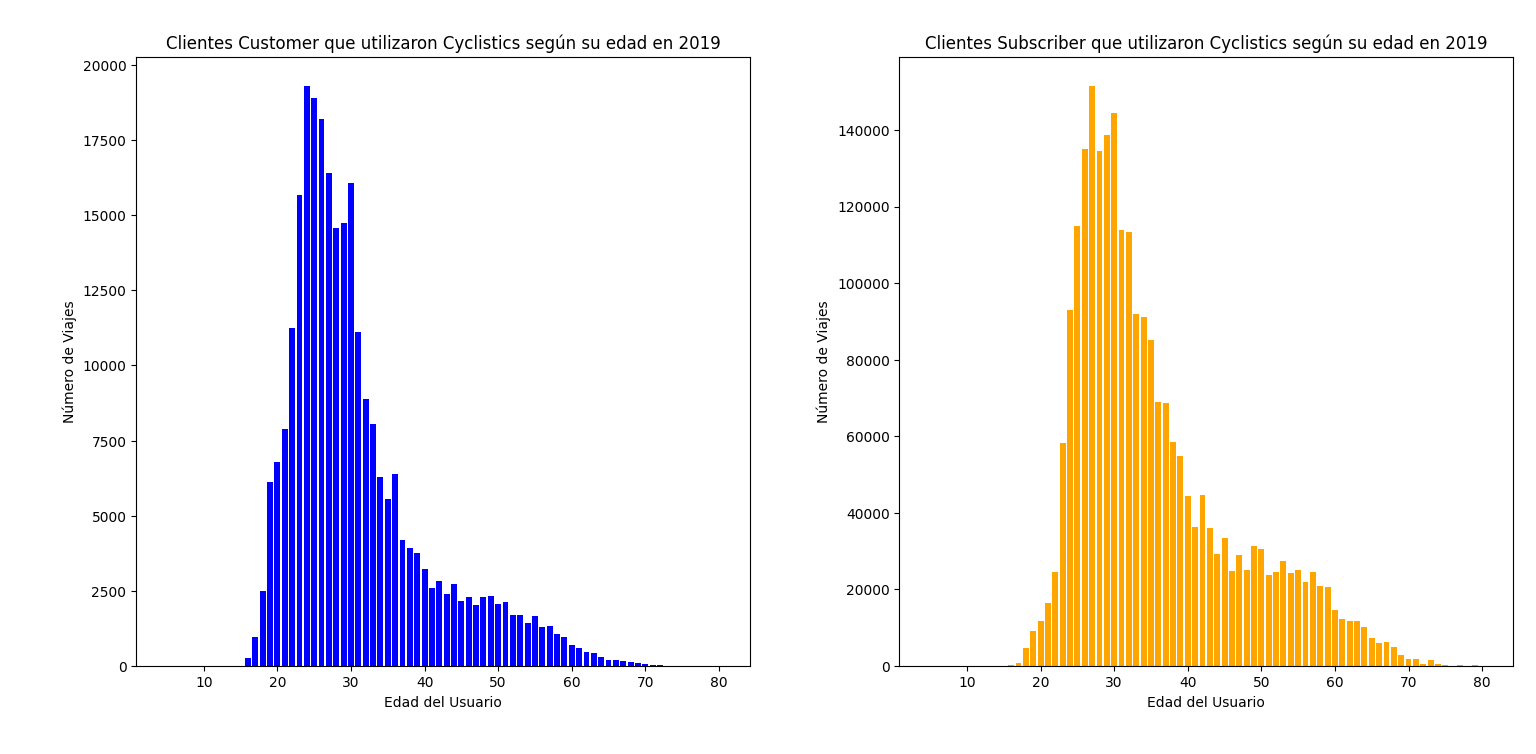
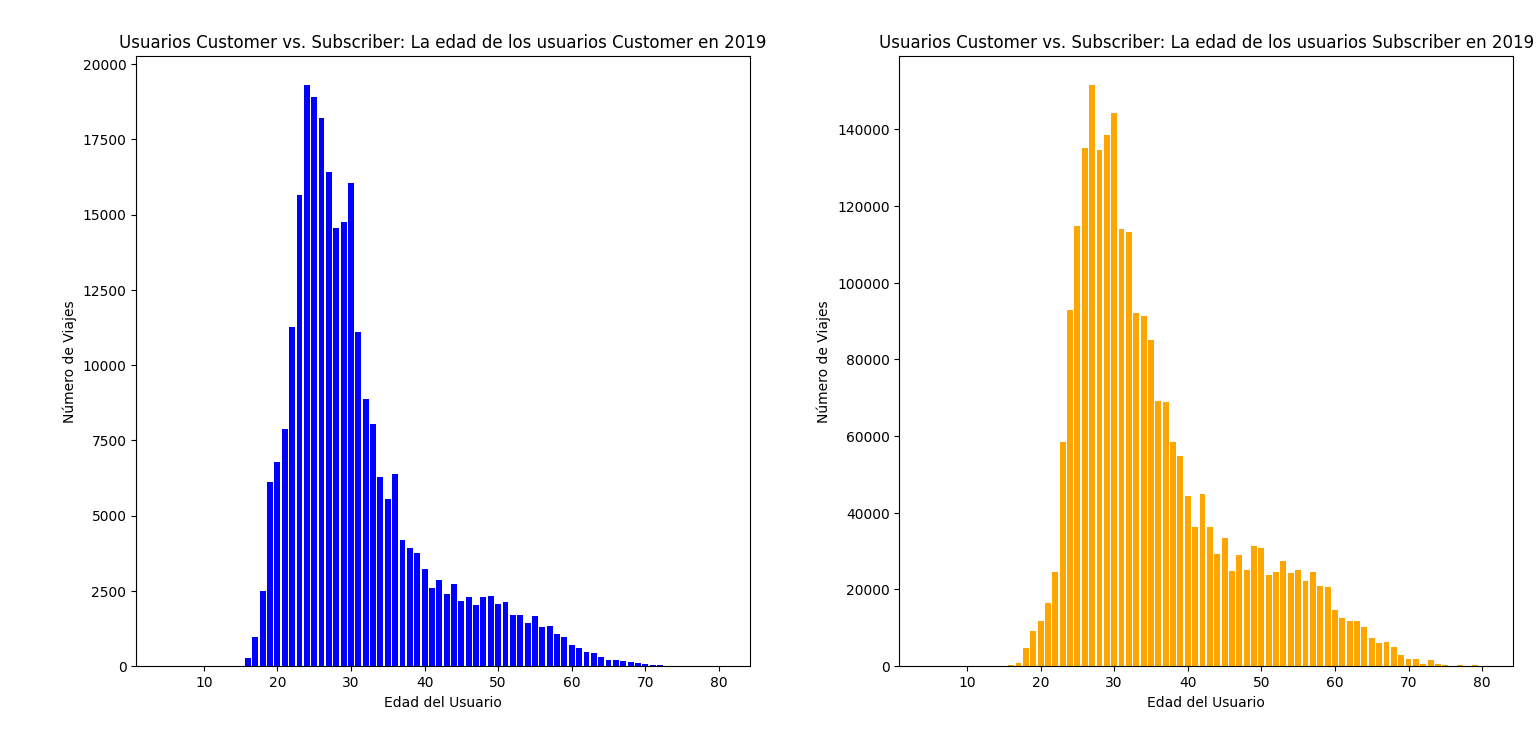
send changes

diff --git a/codigo_graficos/viajes_semana.py b/codigo_graficos/viajes_semana.py
@@ -1,4 +1,5 @@
 import matplotlib.pyplot as plt
+import numpy as np
 
 # Datos en formato JSON
 data = [
@@ -29,37 +30,52 @@ viajes_subscriber = [entry["total_viajes_subscriber"] for entry in data]
 tiempo_customer = [entry["promedio_recorrido_customer"]["minutes"] + entry["promedio_recorrido_customer"]["seconds"] / 60 for entry in data]
 tiempo_subscriber = [entry["promedio_recorrido_subscriber"]["minutes"] + entry["promedio_recorrido_subscriber"]["seconds"] / 60 for entry in data]
 
-# Crear los gráficos lineales
+# Crear el gráfico lineal del total de recorridos
 plt.figure(figsize=(10, 5))
 
-plt.subplot(2, 1, 1)
-plt.plot(dias_semana, viajes_customer, marker='o', color='blue')
-plt.xlabel('Día de la semana')
-plt.ylabel('Total de viajes')
-plt.title('Total de viajes de usuarios Customer por día de la semana en 2019')
+plt.plot(dias_semana, viajes_customer, marker='o', color='blue', label='Customer')
+plt.plot(dias_semana, viajes_subscriber, marker='o', color='orange', label='Subscriber')
 
-plt.subplot(2, 1, 2)
-plt.plot(dias_semana, viajes_subscriber, marker='o', color='orange')
-plt.xlabel('Día de la semana')
-plt.ylabel('Total de viajes')
-plt.title('Total de viajes de usuarios Subscriber por día de la semana en 2019')
+# Etiquetas de datos
+for i, (semana, vc, vs) in enumerate(zip(dias_semana, viajes_customer, viajes_subscriber)):
+    plt.text(semana, vc, f"{vc}", ha='center', va='bottom')
+    plt.text(semana, vs, f"{vs}", ha='center', va='bottom')
 
+# Rejillas
+plt.grid(True)
+
+plt.xlabel('Mes')
+plt.ylabel('Total de viajes')
+plt.title('Usuarios Customer vs. Subscriber: Total de viajes por día de la semana en 2019')
+plt.legend()
+plt.xticks(rotation=45)
 plt.tight_layout()
 plt.show()
 
+
+# Crear el gráfico lineal del promedio de tiempo
 plt.figure(figsize=(10, 5))
 
-plt.subplot(2, 1, 1)
-plt.plot(dias_semana, tiempo_customer, marker='o', color='blue')
-plt.xlabel('Día de la semana')
-plt.ylabel('Tiempo promedio (Minutos)')
-plt.title('Promedio en el tiempo de los recorridos de usuarios Customer por día de la semana en 2019')
+plt.plot(dias_semana, tiempo_customer, marker='o', color='blue', label='Customer')
+plt.plot(dias_semana, tiempo_subscriber, marker='o', color='orange', label='Subscriber')
 
-plt.subplot(2, 1, 2)
-plt.plot(dias_semana, tiempo_subscriber, marker='o', color='orange')
-plt.xlabel('Día de la semana')
-plt.ylabel('Tiempo promedio (Minutos)')
-plt.title('Promedio en el tiempo de los recorridos de usuarios Customer por día de la semana en 2019')
+# Etiquetas de datos
+for i, (semana, vc, vs) in enumerate(zip(dias_semana, tiempo_customer, tiempo_subscriber)):
+    vc_rounded = round(vc, 2)
+    vs_rounded = round(vs, 2)
+    plt.text(semana, vc, f"{vc_rounded}", ha='center', va='bottom')
+    plt.text(semana, vs, f"{vs_rounded}", ha='center', va='bottom')
+    
+    #plt.text(semana, vc, f"{vc}", ha='center', va='bottom')
+    #plt.text(semana, vs, f"{vs}", ha='center', va='bottom')
 
+# Rejillas
+plt.grid(True)
+
+plt.xlabel('Dia de la semana')
+plt.ylabel('Promedio de tiempo (minutos)')
+plt.title('Usuarios Customer vs. Subscriber: Promedio de recorrido por día de la semana en 2019')
+plt.legend()
+plt.xticks(rotation=45)
 plt.tight_layout()
 plt.show()

diff --git a/codigo_graficos/total_viajes.py b/codigo_graficos/total_viajes.py
@@ -18,22 +18,31 @@ data = [
 usertypes = [entry["usertype"] for entry in data]
 viajes_totales = [int(entry["viajes_totales"]) for entry in data]
 recorridos_totales = [entry["recorridos_totales"]["hours"] + entry["recorridos_totales"]["minutes"] / 60 + entry["recorridos_totales"]["seconds"] / 3600 for entry in data]
-
+    
 # Gráfico de barras para el total de viajes
 plt.figure(figsize=(10, 5))
 plt.subplot(1, 2, 1)
 plt.bar(usertypes, viajes_totales, color=['blue', 'orange'])
-plt.xlabel('User Type')
-plt.ylabel('Total Trips')
-plt.title('El total de recorridos realizados en 2019 según el tipo de cliente')
+
+# Etiquetas de datos
+for i, v in enumerate(viajes_totales):
+    plt.text(i, v, str(v), ha='center', va='bottom')
+
+plt.xlabel('Tipo de usuario')
+plt.ylabel('Total de viajes')
+plt.title('Usuarios Customer vs. Subscriber: Total de viajes realizados en 2019')
 
 # Gráfico de barras para el tiempo total de recorridos
 plt.subplot(1, 2, 2)
 plt.bar(usertypes, recorridos_totales, color=['blue', 'orange'])
-plt.xlabel('User Type')
-plt.ylabel('Total Time (hours)')
-plt.title('El tiempo total de los recorridos realizados en 2019 según el tipo de cliente')
 
-# Mostrar los gráficos
+# Etiquetas de datos
+for i, v in enumerate(recorridos_totales):
+    plt.text(i, v, f"{v:.2f}", ha='center', va='bottom')
+
+plt.xlabel('Tipo de usuario')
+plt.ylabel('Tiempo total de los recorridos (Horas)')
+plt.title('Usuarios Customer vs. Subscriber: Total del tiempo de los recorridos en 2019')
+
 plt.tight_layout()
 plt.show()

diff --git a/codigo_graficos/viajes_mes.py b/codigo_graficos/viajes_mes.py
@@ -1,4 +1,5 @@
 import matplotlib.pyplot as plt
+import numpy as np
 
 # Datos en formato JSON
 data = [
@@ -42,12 +43,30 @@ plt.figure(figsize=(10, 5))
 plt.plot(meses, viajes_customer, marker='o', color='blue', label='Customer')
 plt.plot(meses, viajes_subscriber, marker='o', color='orange', label='Subscriber')
 
+# Etiquetas de datos
+for i, (mes, vc, vs) in enumerate(zip(meses, viajes_customer, viajes_subscriber)):
+    plt.text(mes, vc, f"{vc}", ha='center', va='bottom')
+    plt.text(mes, vs, f"{vs}", ha='center', va='bottom')
+
+# Rejillas
+plt.grid(True)
+
+# Línea de tendencia
+z_customer = np.polyfit(range(len(meses)), viajes_customer, 1)
+p_customer = np.poly1d(z_customer)
+plt.plot(meses, p_customer(range(len(meses))), linestyle='--', color='blue')
+
+z_subscriber = np.polyfit(range(len(meses)), viajes_subscriber, 1)
+p_subscriber = np.poly1d(z_subscriber)
+plt.plot(meses, p_subscriber(range(len(meses))), linestyle='--', color='orange')
+
+# Resto de tu código...
+
 plt.xlabel('Mes')
 plt.ylabel('Total de viajes')
-plt.title('El total de viajes mensuales realizados por usuarios Customer y Subscriber en el 2019')
+plt.title('Usuarios Customer vs. Subscriber: Total de viajes mensuales en 2019')
 plt.legend()
-
-plt.xticks(rotation=45)  # Rotar las etiquetas del eje x para una mejor legibilidad
-
+plt.xticks(rotation=45)
 plt.tight_layout()
 plt.show()
+

diff --git a/codigo_graficos/clientes_genero.py b/codigo_graficos/clientes_genero.py
@@ -2,8 +2,8 @@ import matplotlib.pyplot as plt
 
 # Datos en formato JSON
 data = [
-    {"gender": "Female", "viajes_customer": 103695, "viajes_subscriber": 599795},
-    {"gender": "Male", "viajes_customer": 164712, "viajes_subscriber": 1847245}
+    {"gender": "Femenino", "viajes_customer": 103695, "viajes_subscriber": 599795},
+    {"gender": "Masculino", "viajes_customer": 164712, "viajes_subscriber": 1847245}
 ]
 
 # Extraer los datos
@@ -15,12 +15,12 @@ viajes_subscriber = [int(entry["viajes_subscriber"]) for entry in data]
 plt.figure(figsize=(10, 5))
 plt.subplot(1, 2, 1)
 plt.pie(viajes_customer, labels=genders, autopct='%1.1f%%', startangle=90)
-plt.title('El procentaje de clientes Customer que utilizaron Cyclistics según su género en 2019')
+plt.title('Customer vs. Subscriber: Porcentaje del género de los usuarios Customer en 2019')
 
 # Gráfico de pastel para Subscriber
 plt.subplot(1, 2, 2)
 plt.pie(viajes_subscriber, labels=genders, autopct='%1.1f%%', startangle=90)
-plt.title('El procentaje de clientes Subscriber que utilizaron Cyclistics según su género en 2019')
+plt.title('Customer vs. Subscriber: Porcentaje del género de los usuarios Subscriber en 2019')
 
 # Mostrar los gráficos
 plt.tight_layout()

diff --git a/codigo_graficos/clientes_edad.py b/codigo_graficos/clientes_edad.py
@@ -83,13 +83,13 @@ plt.subplot(1, 2, 1)
 plt.bar(edades, viajes_customer, color='blue')
 plt.xlabel('Edad del Usuario')
 plt.ylabel('Número de Viajes')
-plt.title('Clientes Customer que utilizaron Cyclistics según su edad en 2019')
+plt.title('Usuarios Customer vs. Subscriber: La edad de los usuarios Customer en 2019')
 
 plt.subplot(1, 2, 2)
 plt.bar(edades, viajes_subscriber, color='orange')
 plt.xlabel('Edad del Usuario')
 plt.ylabel('Número de Viajes')
-plt.title('Clientes Subscriber que utilizaron Cyclistics según su edad en 2019')
+plt.title('Usuarios Customer vs. Subscriber: La edad de los usuarios Subscriber en 2019')
 
 # Mostrar los gráficos
 plt.tight_layout()
